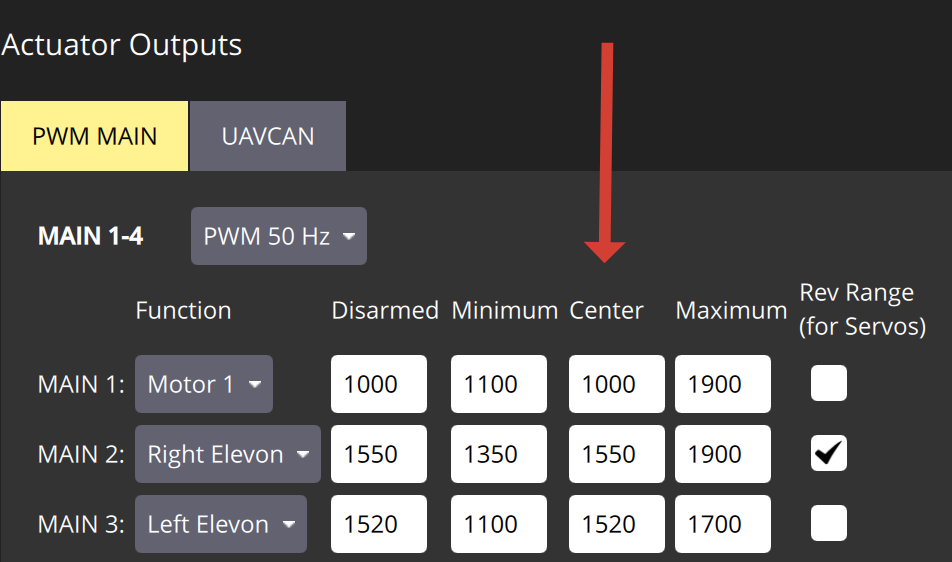
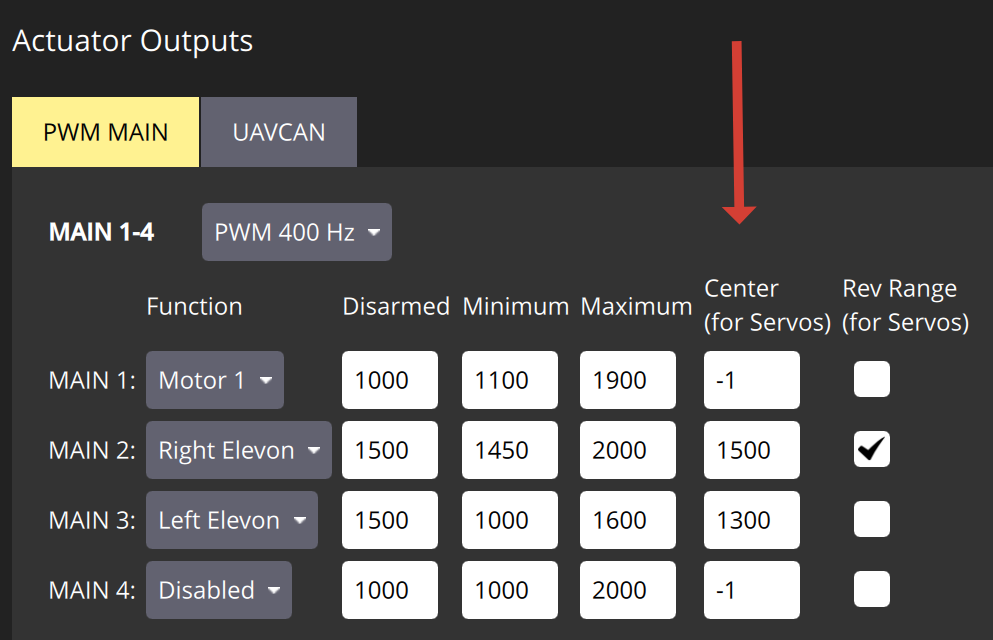
improve documentation

diff --git a/docs/en/config/actuators.md b/docs/en/config/actuators.md
@@ -555,13 +555,19 @@ This is usually around `1500` for PWM servos (near the center of the servo range
 3. Gradualy decrease the `Minimum` for each servo, until the desired deflection is reached.
 4. Set `Disarmed` value to the desired value. It is usually desirable to have it the same as the `Center` value.
 
+::: info
+If you want to retain the linear behaviour of the servo after setting the `Center`, make sure to adjust the `Minimum` or `Maximum`, such that both invervals (`min` to `cent` & `cent` to `max`) are equally lare.
+
+![Linear PWM Adjustment](../../assets/config/actuators/servo_pwm_linear.png)
+:::
+
 #### Non-PWM: Control surfaces that move both directions about a neutral point
 
 Control surfaces that move either direction around a neutral point include: ailerons, elevons, V-tails, A-tails, and rudders.
 
 To set these up:
 
-0. Set all `PWM_MAIN_CENTx` and `PWM_AUX_CENTx` to default, or trimming will not be possible.
+0. Set all `PWM_MAIN_CENTx` and `PWM_AUX_CENTx` to default (-1), or trimming will not be possible.
 
 1. Set the `Disarmed` value so that the surfaces will stay at neutral position when disarmed.
    This is usually around `1500` for PWM servos (near the centre of the servo range).
@@ -581,13 +587,19 @@ To set these up:
 3. Move the slider again to the middle and check if the Control Surfaces are aligned in the neutral position of the wing.
    - If it is not aligned, you can set the **Trim** value for the control surface.
 
-     ::: info
-     This is done in the `Trim` setting of the Geometry panel, usually by "trial and error".
-     ![Control Surface Trimming](../../assets/config/actuators/control_surface_trim.png)
-     :::
+    ::: info
+    This is done in the `Trim` setting of the Geometry panel, usually by "trial and error".
+    ![Control Surface Trimming](../../assets/config/actuators/control_surface_trim.png)
+    :::
 
    - After setting the trim for a control surface, move its slider away from the centre, release, and then back into disarmed (middle) position.
      Confirm that surface is in the neutral position.
+
+
+
+::: tip
+If any servo has a `PWM_MAIN_CENTx` or `PWM_AUX_CENTx` not set to default (-1), the system will automatically remove `Trim` from all surfaces. This is done to prevent mixing of old and new trimming tools.
+:::
 
 ::: info
 Another way to test without using the sliders would be to set the [`COM_PREARM_MODE`](../advanced_config/parameter_reference.md#COM_PREARM_MODE) parameter to `Always`:
@@ -609,7 +621,7 @@ For a flap, that is when the flap is fully retracted and flush with the wing.
 
 One approach for setting these up is:
 
-0. Set all `PWM_MAIN_CENTx` and `PWM_AUX_CENTx` to default, or trimming will not be possible.
+0. Set all `PWM_MAIN_CENTx` and `PWM_AUX_CENTx` to default (-1), or trimming will not be possible.
 1. Set values `Disarmed` to `1500`, `Min` to `1200`, `Max` to `1700` so that the values are around the centre of the servo range.
 2. Move the corresponding slider up and check the control moves and that it is extending (moving away from the disarmed position).
    If not, click on the `Rev Range` checkbox to reverse the range.
